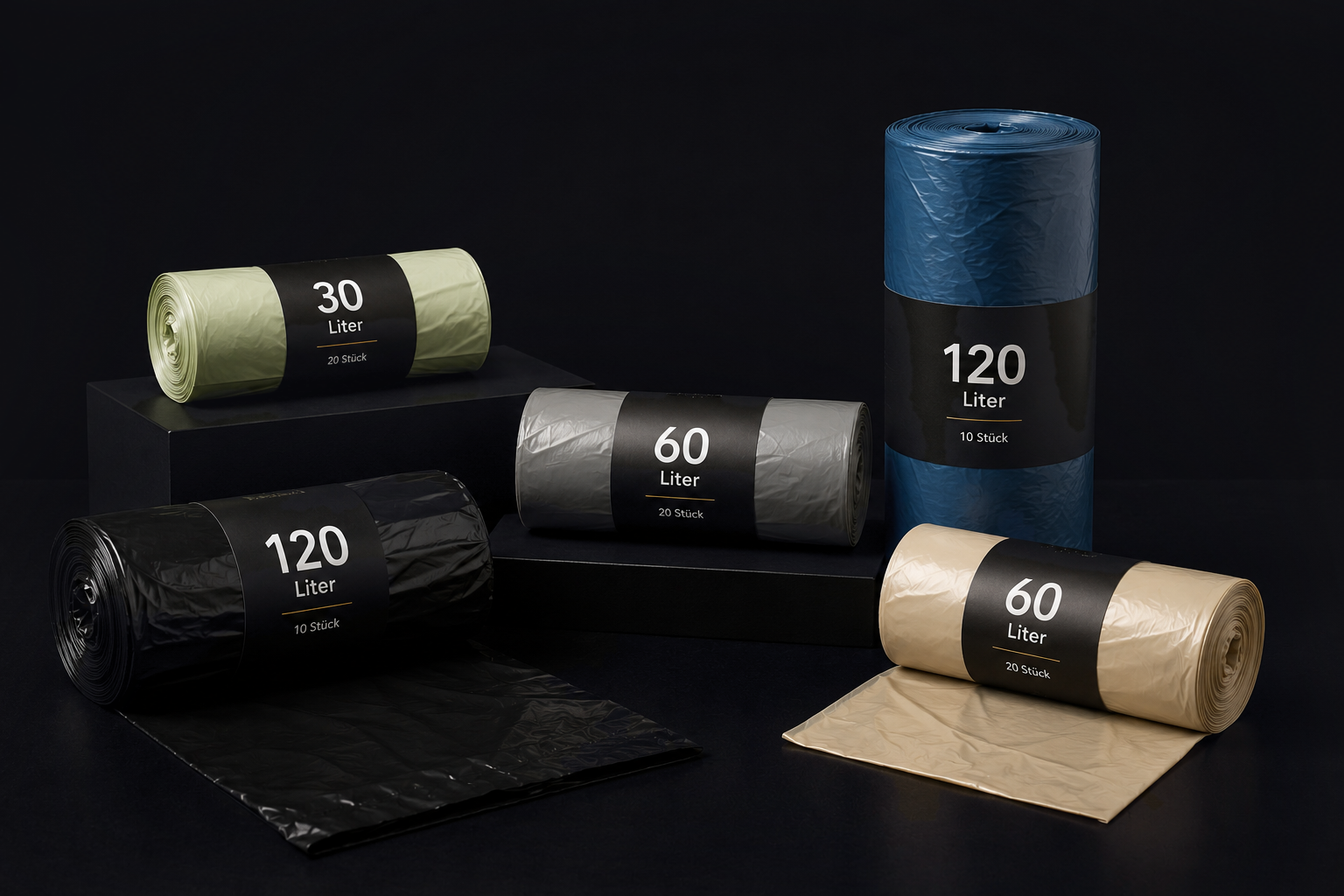
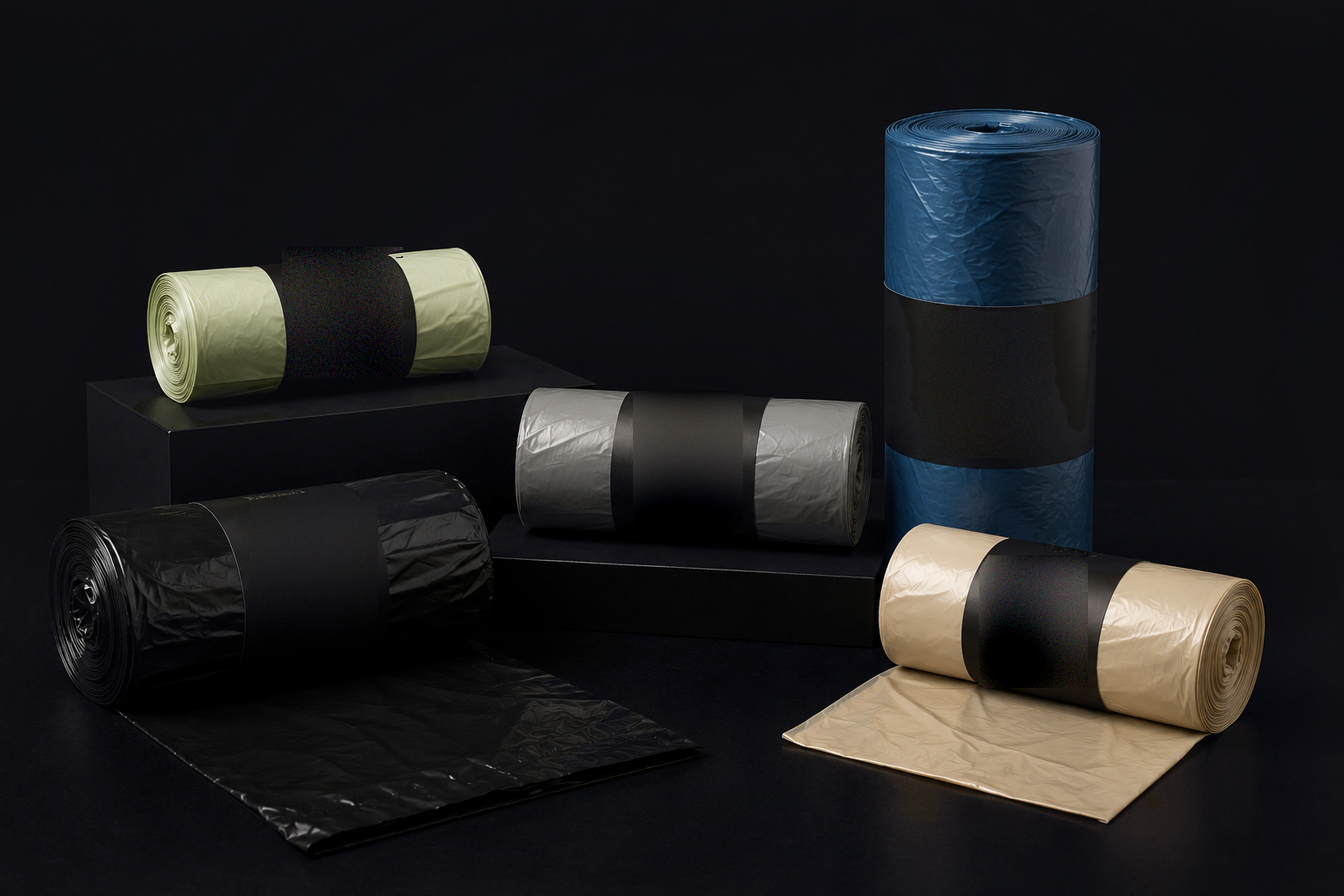
Muellsackrollen: Liter- und Stueckangaben entfernt
Freigegeben. Grund: erfundene Produktdaten auf einer Kategoriekachel
koennen als Angebot gelesen werden. Betroffen sind acht Banderolen,
fuenf in entsorgung-a und drei in entsorgung-b.
"Einweghandschuhe" auf der Schachtel bleibt, ebenso die drei
Piktogramme und der Zierstrich dort - wie entschieden.

WEG SIND: die Zahl, das Wort "Liter", der Zierstrich darunter und die
Zeile "20 Stueck" bzw. "10 Stueck". Die Banderole bleibt als dunkle
Flaeche stehen.

VERFAHREN, scripts/kategorie-banderole.py
Nicht die Schrift wird geflickt, sondern die GANZE BANDEROLE neu
aufgebaut. Ein Flicken in Schriftform faellt immer auf, egal wie gut
er getroffen ist - das Auge findet die Kante. Wird die Flaeche
komplett ersetzt, gibt es im Inneren keine Kante mehr, und aussen
faellt der Uebergang mit dem Rand der Banderole zusammen, der ohnehin
hart ist. Die neue Flaeche ist eine Flaeche 3. Grades durch die
schriftfreien Punkte plus Korn in der gemessenen Staerke.

DREI SACKGASSEN, damit sie niemand wiederholt:
1. Automatischer Schriftsucher ueber das ganze Bild: fand die Schrift,
   hielt aber den Glanz auf der Sackfolie ebenfalls dafuer - 59.000
   Bildpunkte in 19 Bloecken statt der gesuchten fuenf. Verworfen,
   die acht Flaechen sind stattdessen eingemessen.
2. Fester Schwellwert im Viereck: scheitert am Helligkeitsverlauf
   quer ueber die gewoelbte Banderole, die helle Bandhaelfte wird fuer
   Schrift gehalten. Jetzt: Bandton je Bildpunkt aus einem breiten
   waagrechten Fenster.
[…]

diff --git a/scripts/kategorie-banderole.py b/scripts/kategorie-banderole.py
@@ -1,0 +1,201 @@
+#!/usr/bin/env python3
+"""
+Liter- und Stueckangaben von den Muellsackrollen entfernen.
+
+  python3 scripts/kategorie-banderole.py             # nur pruefen
+  python3 scripts/kategorie-banderole.py --schreiben # Bilder schreiben
+
+ANLASS: Auf den Banderolen stehen erfundene Produktdaten
+("120 Liter", "10 Stueck"). Auf einer Kategoriekachel koennen die als
+Angebot gelesen werden. Die Banderole bleibt als Flaeche erhalten,
+nur die Beschriftung faellt weg.
+
+WARUM DIE FLAECHEN VON HAND STEHEN: Ein automatischer Schriftsucher
+ueber das ganze Bild wurde gebaut und verworfen. Er fand die Schrift
+zuverlaessig, hielt aber auch den Glanz auf der Sackfolie fuer
+Schrift - 59.000 Bildpunkte in 19 Bloecken statt der gesuchten fuenf.
+Die acht Banderolen sind stattdessen eingemessen und stehen unten.
+Das ist nachpruefbar und trifft nichts, was nicht gemeint ist.
+
+VERFAHREN, kein Klonstempel und kein Weichzeichner:
+Die Banderole ist eine glatte, gewoelbte Flaeche. Durch ihre
+schriftfreien Punkte wird eine Flaeche 3. Grades gelegt und die
+Schrift damit ueberschrieben. Zwei Punkte entscheiden ueber das
+Ergebnis:
+  - Die Schrift hat einen weichen Saum, der das Band ringsum leicht
+    abdunkelt. Punkte innerhalb von 16 px um die Schrift zaehlen
+    deshalb NICHT als Referenz. Ohne das wird die Fuellung zu dunkel
+    und die Retusche zeichnet sich als Schatten in Schriftform ab.
+  - Gefuellt wird 5 px ueber die Schrift hinaus, damit dieser Saum
+    mit verschwindet.
+Darauf kommt Korn in der Staerke, die auf derselben Banderole
+gemessen wurde; ohne das bliebe die Stelle unnatuerlich glatt.
+
+Schrift ist alles, was deutlich heller ist als der Bandton an
+derselben Stelle UND nicht am Rand des Vierecks haengt. Die zweite
+Bedingung erledigt die Folienzipfel, die in manchen Ecken ins Viereck
+ragen: sie sind heller als jeder Buchstabe, beruehren aber immer den
+Rand.
+
+MIT ENTFERNT wird der duenne Zierstrich unter der Zahl. Er gehoert
+zum Textblock und stuende allein sinnlos da.
+
+Abhaengigkeiten: pillow, numpy, scipy
+"""
+import sys
+from pathlib import Path
+
+import numpy as np
+from PIL import Image
+from scipy import ndimage as ndi
+
+WURZEL = Path(__file__).resolve().parent.parent
+ORDNER = WURZEL / "public/kategorie"
+
+# Eingemessen auf den fertigen Bildern, 1344x896.
+# (x0, y0, x1, y1) je Textblock, eng um die Schrift gelegt und damit fast
+# ganz auf der Banderole, aber mit Luft nach oben: beruehrt die grosse
+# Zahl den Rand des Vierecks, faellt sie beim Randtest mit heraus.
+# Wo eine Ecke doch auf die Folie faellt, faellt diese Folie beim Randtest
+# heraus.
+FLAECHEN = {
+    "entsorgung-a-final": [
+        (277, 242, 408, 383),    # gruene Rolle oben links
+        (914, 306, 1058, 463),   # blaue Rolle stehend
+        (628, 386, 748, 538),    # graue Rolle Mitte
+        (244, 496, 383, 653),    # schwarze Rolle links
+        (974, 550, 1093, 693),   # braune Rolle unten rechts
+    ],
+    "entsorgung-b-final": [
+        (280, 392, 418, 548),    # gruene Rolle links
+        (912, 382, 1058, 548),   # blaue Rolle stehend
+        (612, 566, 743, 723),    # graue Rolle Mitte
+    ],
+}
+
+FENSTER = 51     # Breite des Fensters fuer den Bandton, in Bildpunkten
+HELLER = 15      # so viel heller als der Bandton gilt als Schrift
+MIN_FLECK = 25   # kleinere Flecken sind Korn
+SAUM_FUELL = 5   # so weit ueber die Schrift hinaus wird gefuellt
+SAUM_REF = 16    # so weit um die Schrift herum taugt nichts als Referenz
+
+
+def scheibe(r):
+    yy, xx = np.mgrid[-r:r + 1, -r:r + 1]
+    return xx * xx + yy * yy <= r * r
+SAUM = 4         # Sicherheitssaum um die Schrift
+
+
+
+def masken(im, rechteck):
+    """Schriftmaske und Bandmaske innerhalb eines Vierecks."""
+    x0, y0, x1, y1 = rechteck
+    lum = im[y0:y1, x0:x1].mean(2)
+
+    # Bandton je Bildpunkt aus einem breiten WAAGRECHTEN Fenster. Breiter
+    # als der dickste Buchstabenstrich, damit das Fenster auch mitten in
+    # einer Ziffer noch Band links und rechts sieht. Ein quadratisches
+    # Fenster oder ein fester Schwellwert scheitern hier: die Banderolen
+    # haben quer ueber die Rolle einen deutlichen Helligkeitsverlauf, ein
+    # fester Wert wuerde die helle Bandhaelfte fuer Schrift halten.
+    grund = ndi.median_filter(lum, size=(1, FENSTER))
+    hell = lum > grund + HELLER
+
+    # Die Folienzipfel haengen am Rand des Vierecks, die Schrift nicht.
+    lab, n = ndi.label(hell, structure=np.ones((3, 3)))
+    schrift = np.zeros_like(hell)
+    for i in range(1, n + 1):
+        m = lab == i
+        ys, xs = np.where(m)
+        if (ys.min() == 0 or xs.min() == 0
+                or ys.max() == m.shape[0] - 1 or xs.max() == m.shape[1] - 1):
+            continue
+        if m.sum() < MIN_FLECK:
+            continue
+        schrift |= m
+
+    schrift = ndi.binary_fill_holes(schrift)
+    schrift = ndi.binary_dilation(schrift, ndi.generate_binary_structure(2, 2),
+                                  iterations=SAUM)
+    return schrift, ~hell
+
+
+def fuellen(im, rechteck, rng):
+    x0, y0, x1, y1 = rechteck
+    schrift, band = masken(im, rechteck)
+    teil = im[y0:y1, x0:x1]
+    H, B, _ = teil.shape
+
+    # Die Schrift hat einen weichen Saum, der das Band ringsum leicht
+    # abdunkelt. Als Referenz taugen deshalb nur Punkte, die WEITER weg
+    # liegen - sonst zieht der Saum die Fuellung zu dunkel und die
+    # Retusche zeichnet sich als Schatten in Schriftform ab.
+    # GEFUELLT WIRD DIE GANZE BANDEROLE, nicht nur die Schrift. Ein
+    # Flicken in Schriftform faellt immer auf, egal wie gut er getroffen
+    # ist - das Auge findet die Kante. Wird die ganze Flaeche neu
+    # aufgebaut, gibt es keine Kante im Inneren. Aussen deckt sie sich mit
+    # dem Rand der Banderole, und der ist ohnehin eine harte Kante.
+    # Was NICHT gefuellt wird: die Folie. Sie haengt am Rand des
+    # Vierecks. Alles andere ausserhalb der Bandmaske sind Reste, die die
+    # Schrifterkennung nicht erwischt hat - der Zierstrich zum Beispiel.
+    # Die sollen mit weg, also gehoeren sie in die Fuellung.
+    lab, n = ndi.label(~band, structure=np.ones((3, 3)))
+    aussen = np.zeros_like(band)
+    for i in range(1, n + 1):
+        m = lab == i
+        ys, xs = np.where(m)
+        if (ys.min() == 0 or xs.min() == 0
+                or ys.max() == m.shape[0] - 1 or xs.max() == m.shape[1] - 1):
+            aussen |= m
+    fuellen_maske = ndi.binary_closing(band, scheibe(SAUM_FUELL))
+    fuellen_maske &= ~ndi.binary_dilation(aussen, scheibe(2))
+    referenz = band & ~ndi.binary_dilation(schrift, scheibe(SAUM_REF))
+    if referenz.sum() < 400 or not fuellen_maske.any():
+        return 0, schrift
+
+    # Flaeche 3. Grades durch die Referenzpunkte. Die Banderole ist eine
+    # gewoelbte, glatte Flaeche - dafuer reicht das, und anders als eine
+    # spaltenweise Fuellung erzeugt es keine senkrechten Streifen.
+    yy, xx = np.mgrid[0:H, 0:B].astype(np.float32)
+    u, v = xx / (B - 1) * 2 - 1, yy / (H - 1) * 2 - 1
+    A = np.stack([(u ** i * v ** j).ravel()
+                  for i in range(4) for j in range(4) if i + j <= 3], 1)
+    r = referenz.ravel()
+    flaeche = np.stack([(A @ np.linalg.lstsq(A[r], teil[..., c].ravel()[r],
+                                             rcond=None)[0]).reshape(H, B)
+                        for c in range(3)], -1)
+    # Korn nur aus der hohen Frequenz, sonst geht der Fehler der
+    # Flaechenanpassung als Rauschen mit ein und die Fuellung grieselt.
+    rest = teil - ndi.uniform_filter(teil, size=(7, 7, 1))
+    korn = float(np.std(rest[referenz]))
+
+    m = fuellen_maske
+    teil[m] = flaeche[m] + rng.normal(0.0, korn, size=(int(m.sum()), 3))
+    return int(m.sum()), schrift
+
+
+def main():
+    schreiben = "--schreiben" in sys.argv
+    rng = np.random.default_rng(11)
+    for n, rechtecke in FLAECHEN.items():
+        p = ORDNER / f"{n}.png"
+        im = np.asarray(Image.open(p).convert("RGB"), dtype=np.float32).copy()
+        pruef = im.copy()
+        gesamt = 0
+        for r in rechtecke:
+            anz, schrift = fuellen(im, r, rng)
+            gesamt += anz
+            pruef[r[1]:r[3], r[0]:r[2]][schrift] = [255, 40, 40]
+            print(f"  {n}  Flaeche x {r[0]:4d}..{r[2]:4d} y {r[1]:4d}..{r[3]:4d}  "
+                  f"{anz:5d} Bildpunkte ersetzt")
+        print(f"{n}: {gesamt} Bildpunkte in {len(rechtecke)} Banderolen")
+        if schreiben:
+            Image.fromarray(np.clip(im + 0.5, 0, 255).astype(np.uint8)).save(p)
+            print(f"  geschrieben: {p.name}")
+        else:
+            Image.fromarray(np.clip(pruef, 0, 255).astype(np.uint8)).save(
+                f"/tmp/pruef-{n}.png")
+
+
+if __name__ == "__main__":
+    main()
